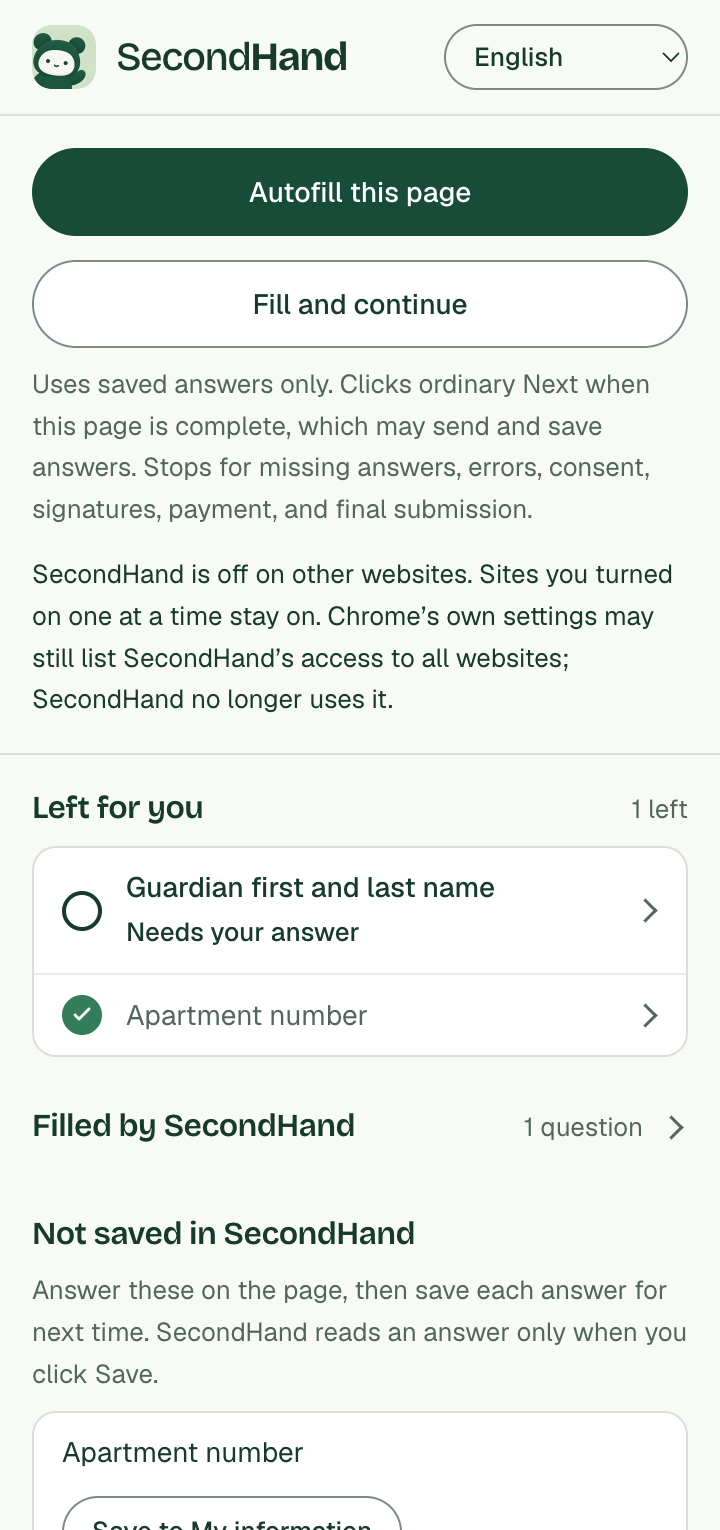
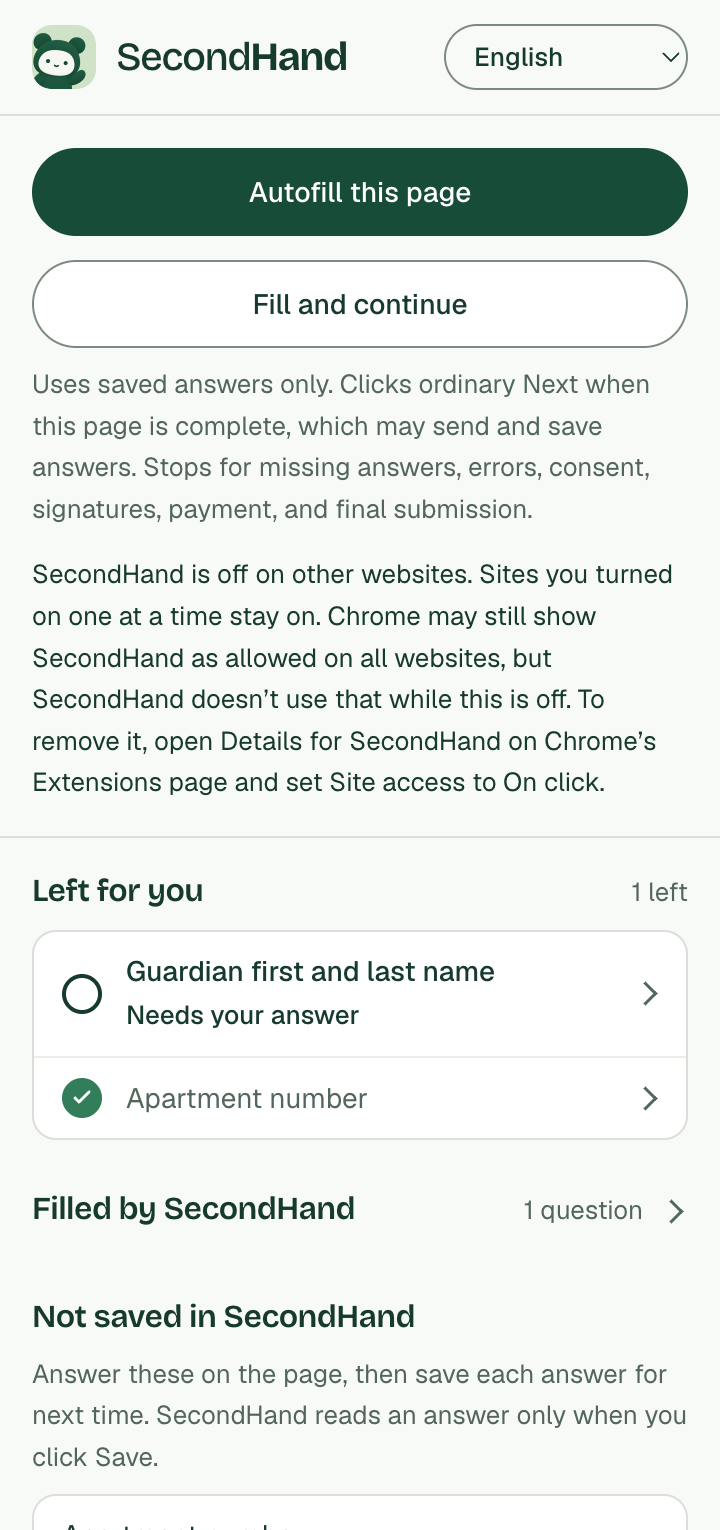
fix: say calmly what Chrome may still show after all websites are off, and how to remove it
"Chrome's own settings may still list SecondHand's access to all websites"
alarmed two reviewers and didn't say what to do. The note now says SecondHand
doesn't use that access while this is off, and where to remove it: Details for
SecondHand on Chrome's Extensions page, Site access set to On click.

diff --git a/extension/strings.js b/extension/strings.js
@@ -373,7 +373,7 @@
     'worker.chromeNotAllowedAllSites': 'Chrome hasn’t allowed SecondHand on all websites. Click Use SecondHand on all websites again and allow it.',
     'worker.appDidNotApproveAllSites': 'The SecondHand app did not approve all websites.',
     'worker.allSitesStillOnInApp': 'SecondHand is off on other websites in Chrome, but the app couldn’t be told. Turn it off on the app’s Chrome extension page too.',
-    'worker.chromeStillAllows': 'Chrome’s own settings may still list SecondHand’s access to all websites; SecondHand no longer uses it.',
+    'worker.chromeStillAllows': 'Chrome may still show SecondHand as allowed on all websites, but SecondHand doesn’t use that while this is off. To remove it, open Details for SecondHand on Chrome’s Extensions page and set Site access to On click.',
     'worker.siteStillTrustedInApp': 'SecondHand is off for this site in Chrome, but the app couldn’t be told. Remove the site on the app’s Chrome extension page too.',
     'worker.allSitesCoverSite': 'SecondHand is on for all websites, which includes this site. Turn it off on all websites first.',
     // Two whole messages, one after the other.
@@ -872,7 +872,7 @@
     'worker.chromeNotAllowedAllSites': 'Chrome no ha permitido SecondHand en todos los sitios web. Haga clic en “Usar SecondHand en todos los sitios web” otra vez y permítalo.',
     'worker.appDidNotApproveAllSites': 'La aplicación SecondHand no aprobó todos los sitios web.',
     'worker.allSitesStillOnInApp': 'SecondHand está desactivado en los demás sitios web en Chrome, pero no se pudo avisar a la aplicación. Desactívelo también en la página “Chrome extension” de la aplicación.',
-    'worker.chromeStillAllows': 'La configuración de Chrome puede seguir mostrando el acceso de SecondHand a todos los sitios web; SecondHand ya no lo usa.',
+    'worker.chromeStillAllows': 'Chrome puede seguir mostrando que SecondHand tiene permiso en todos los sitios web, pero SecondHand no lo usa mientras esto está desactivado. Para quitarlo, abra “Detalles” de SecondHand en la página “Extensiones” de Chrome y cambie “Acceso al sitio” a “Al hacer clic”.',
     'worker.siteStillTrustedInApp': 'SecondHand está desactivado para este sitio en Chrome, pero no se pudo avisar a la aplicación. Quite también el sitio en la página “Chrome extension” de la aplicación.',
     'worker.allSitesCoverSite': 'SecondHand está activo en todos los sitios web, incluido este. Primero desactívelo en todos los sitios web.',
     'joined': '{first} {second}',
@@ -1368,7 +1368,7 @@
     'worker.chromeNotAllowedAllSites': 'Chrome chưa cho phép SecondHand trên mọi trang web. Hãy bấm “Dùng SecondHand trên mọi trang web” lần nữa và cho phép.',
     'worker.appDidNotApproveAllSites': 'Ứng dụng SecondHand không chấp thuận mọi trang web.',
     'worker.allSitesStillOnInApp': 'SecondHand đã tắt trên các trang web khác trong Chrome, nhưng không báo được cho ứng dụng. Hãy tắt cả trên trang “Chrome extension” của ứng dụng.',
-    'worker.chromeStillAllows': 'Cài đặt của Chrome có thể vẫn liệt kê quyền truy cập mọi trang web của SecondHand; SecondHand không còn dùng đến.',
+    'worker.chromeStillAllows': 'Chrome có thể vẫn hiển thị SecondHand được phép trên mọi trang web, nhưng SecondHand không dùng quyền đó khi mục này đang tắt. Để gỡ bỏ, hãy mở “Chi tiết” của SecondHand trên trang “Tiện ích” của Chrome và đặt “Quyền truy cập trang web” thành “Khi nhấp”.',
     'worker.siteStillTrustedInApp': 'SecondHand đã tắt cho trang web này trong Chrome, nhưng không báo được cho ứng dụng. Hãy gỡ cả trang web này trên trang “Chrome extension” của ứng dụng.',
     'worker.allSitesCoverSite': 'SecondHand đang bật trên mọi trang web, kể cả trang này. Hãy tắt trên mọi trang web trước.',
     'joined': '{first} {second}',
@@ -1865,7 +1865,7 @@
     'worker.chromeNotAllowedAllSites': 'Chrome 尚未允许 SecondHand 在所有网站上运行。请再次点击“在所有网站上使用 SecondHand”并允许。',
     'worker.appDidNotApproveAllSites': 'SecondHand 应用没有批准所有网站。',
     'worker.allSitesStillOnInApp': 'SecondHand 已在 Chrome 中对其他网站关闭，但无法通知应用。请同时在应用的“Chrome extension”页面上关闭它。',
-    'worker.chromeStillAllows': 'Chrome 的设置中可能仍列出 SecondHand 对所有网站的访问权限；SecondHand 已不再使用它。',
+    'worker.chromeStillAllows': 'Chrome 可能仍显示 SecondHand 可访问所有网站，但在此项关闭时 SecondHand 不会使用。要移除，请在 Chrome 的“扩展程序”页面打开 SecondHand 的“详情”，并将“网站访问权限”设为“点击时”。',
     'worker.siteStillTrustedInApp': 'SecondHand 已在 Chrome 中为此网站关闭，但无法通知应用。请同时在应用的“Chrome extension”页面上移除此网站。',
     'worker.allSitesCoverSite': 'SecondHand 已在所有网站上开启，包括此网站。请先在所有网站上关闭它。',
     'joined': '{first} {second}',
@@ -2362,7 +2362,7 @@
     'worker.chromeNotAllowedAllSites': 'Chrome n’a pas autorisé SecondHand sur tous les sites. Cliquez de nouveau sur « Utiliser SecondHand sur tous les sites » et autorisez-le.',
     'worker.appDidNotApproveAllSites': 'L’application SecondHand n’a pas approuvé tous les sites.',
     'worker.allSitesStillOnInApp': 'SecondHand est désactivé sur les autres sites dans Chrome, mais l’application n’a pas pu être prévenue. Désactivez-le aussi sur la page « Chrome extension » de l’application.',
-    'worker.chromeStillAllows': 'Les réglages de Chrome peuvent encore indiquer l’accès de SecondHand à tous les sites ; SecondHand ne l’utilise plus.',
+    'worker.chromeStillAllows': 'Chrome peut encore indiquer que SecondHand est autorisé sur tous les sites, mais SecondHand ne s’en sert pas tant que ceci est désactivé. Pour le retirer, ouvrez « Détails » de SecondHand sur la page « Extensions » de Chrome et réglez « Accès au site » sur « Lorsque vous cliquez sur l’extension ».',
     'worker.siteStillTrustedInApp': 'SecondHand est désactivé sur ce site dans Chrome, mais l’application n’a pas pu être prévenue. Retirez aussi ce site sur la page « Chrome extension » de l’application.',
     'worker.allSitesCoverSite': 'SecondHand est activé sur tous les sites, y compris celui-ci. Désactivez-le d’abord sur tous les sites.',
     'joined': '{first} {second}',
@@ -2859,7 +2859,7 @@
     'worker.chromeNotAllowedAllSites': 'لم يسمح Chrome لـ SecondHand بالعمل على كل المواقع. انقر على “استخدام SecondHand على كل المواقع” مرة أخرى واسمح له.',
     'worker.appDidNotApproveAllSites': 'لم يوافق تطبيق SecondHand على كل المواقع.',
     'worker.allSitesStillOnInApp': 'تم إيقاف SecondHand على المواقع الأخرى في Chrome، لكن تعذّر إبلاغ التطبيق. أوقفه أيضًا من صفحة “Chrome extension” في التطبيق.',
-    'worker.chromeStillAllows': 'قد تظل إعدادات Chrome تعرض وصول SecondHand إلى كل المواقع؛ لم يعد SecondHand يستخدمه.',
+    'worker.chromeStillAllows': 'قد يظل Chrome يعرض أن SecondHand مسموح له على كل المواقع، لكن SecondHand لا يستخدم ذلك ما دام هذا متوقفًا. لإزالته، افتح “التفاصيل” الخاصة بـ SecondHand في صفحة “الإضافات” في Chrome واضبط “الوصول إلى المواقع” على “عند النقر”.',
     'worker.siteStillTrustedInApp': 'تم إيقاف SecondHand لهذا الموقع في Chrome، لكن تعذّر إبلاغ التطبيق. أزِل الموقع أيضًا من صفحة “Chrome extension” في التطبيق.',
     'worker.allSitesCoverSite': 'SecondHand يعمل على كل المواقع، بما فيها هذا الموقع. أوقفه على كل المواقع أولًا.',
     'joined': '{first} {second}',
